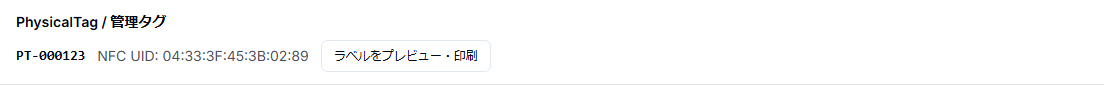
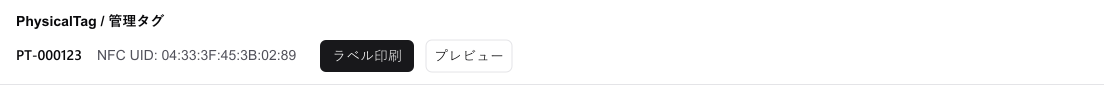
docs: sync manual with latest shipping and label features

Changed region(s): [[0.0, 0.4706, 0.462, 0.8471], [0.0, 0.1647, 0.154, 0.3529]]

diff --git a/docs/manual/full/34_external-integrations.md b/docs/manual/full/34_external-integrations.md
@@ -8,7 +8,7 @@
 
 | サービス | 接続方式 | アプリ側の正本 | 状態変更・確認の責任者 | 現在の状態 |
 | --- | --- | --- | --- | --- |
-| 日本郵便／ゆうプリR | Shipmentから取込用CSVを出力、発送履歴CSVを読取プレビュー。配送会社APIとの直接接続なし | Shipmentの宛先snapshot。履歴側はCSVのraw値と照合候補 | 送り状と現物の引渡しは担当者が外部で確認。プレビューはDBを更新しない | **実装済み：CSV出力・読取プレビューのみ**。引受・追跡・配達の書戻しは未実装 |
+| 日本郵便／ゆうプリR | Shipmentから取込用CSVを出力、発送履歴CSVを読取プレビュー。配送会社APIとの直接接続なし | Shipmentの宛先snapshot。履歴側はCSVのraw値・照合候補・公式code pair説明 | 送り状と現物の引渡しは担当者が外部で確認。プレビューはDBを更新しない | **実装済み：CSV出力・公式説明付き読取プレビュー**。引受・追跡・配達の書戻しは未実装 |
 | ヤマトB2クラウド | CSV adapterを調査中。現行アプリにB2出力UI・API・CSV生成はない | 配送会社非依存のShipment。B2固有の確定値は未設定 | 契約固有値と受理済み実ファイルの確認が先決 | **調査完了／実装保留** |
 | Stripe | 顧客のカードCheckout用にHTTPSでSessionを作成し、署名付きWebhookを受信 | Invoice、Payment、PaymentAllocation、PaymentAttempt | Stripeの決済結果をWebhookで検証し、アプリが決済レコードを確定 | **実装済み：B2C請求書のカードCheckout** |
 | 銀行振込 | 振込そのものはアプリ外。管理者の手動入金登録API | Invoiceと`MANUAL`／`BANK_TRANSFER`のPayment | 入金を確認した管理者が明示登録。銀行APIや取引明細feedは使わない | **実装済み：手動確認・登録** |
@@ -29,9 +29,9 @@
 
 荷物サイズコードは現時点で`060`固定である。実荷物が60サイズ以外なら、この値をそのまま使えると判断しない。未対応の配達希望値やCP932で表現できない文字は推測変換せずエラーにする。
 
-Admin認証が必要な`POST /api/shipments/yupuri-history/preview`は、ゆうプリR発送履歴CSVを解析して照合候補とエラーを返す。対象はCP932・BOMなし・CRLF・headerあり6列のファイルで、`SHP-{Shipment.id}`により候補を照合する。追跡番号・日付・status codeは候補またはraw値にとどめ、**追跡番号、Shipment／Repair status、実発送日時、配達完了日時を保存しない**。重複や追跡番号競合、形式不正も自動解決しない。
+Admin認証が必要な`POST /api/shipments/yupuri-history/preview`は、ゆうプリR発送履歴CSVを解析して照合候補とエラーを返す。対象はCP932・BOMなし・CRLF・headerあり6列のファイルで、`SHP-{Shipment.id}`により候補を照合する。Task202Bで公式配送status code pairの説明表示を追加した。追跡番号・日付は候補またはraw値にとどめ、**追跡番号、Shipment／Repair status、実発送日時、配達完了日時を保存しない**。重複や追跡番号競合、形式不正も自動解決しない。
 
-現時点で意味が確認されたstatusの組は`10/0A = 引受予定`のみであり、**実際の郵便局引受を証明しない**。実引受・配達完了のコードと日付形式は実際のゆうプリR履歴証拠を待つ。Task202B／Task204の追跡保存、配送状態更新、LINE発送通知を、CSV出力やpreviewの結果から先取りしない。業務上の詳細は[第25章](25_yupuri.md)を参照する。
+`10/0A = 引受予定`を含む公式表のcode pairに説明を表示するが、**説明は実際の郵便局引受やShipment状態更新を証明しない**。公式表の「-」は説明なし、表にない組は未確認として警告する。14バイトの日付値はparseせず、非空の実CSVによる形式確認を待つ。`importableLater`も将来取込候補であり書込承認ではない。Task204の追跡保存、配送状態更新、LINE発送通知をCSV出力やpreviewの結果から先取りしない。業務上の詳細は[第25章](25_yupuri.md)を参照する。
 
 ## 34.3 ヤマトB2クラウドの調査境界
 

diff --git a/docs/manual/full/19_ql800-label.md b/docs/manual/full/19_ql800-label.md
@@ -4,22 +4,23 @@
 
 修理袋用のPhysicalTagラベルは、Brother QL-800とDK-2205 62 mm連続紙を前提とする。
 
-アプリは **62 × 75 mm** のPDFを生成し、QL-800のオートカットで1枚75 mmに切る。
+通常はRepair詳細の「ラベル印刷」からb-PACで **62 × 75 mm** をQL-800へ直接印刷し、1枚75 mmでオートカットする。PDFは「プレビュー」から開ける予備の印刷経路として残る。
 DK-2205は糊付きだが、運用上は剥離紙から剥がさず台紙付きのカードとして修理袋と一緒に扱ってよい。
 
 ## 19.2 印刷までの操作
 
-PhysicalTagが割当済みのRepairでは、Repair詳細の「PhysicalTag / 管理タグ」にshortCodeと「ラベルをプレビュー・印刷」が表示される。
+PhysicalTagが割当済みのRepairでは、Repair詳細の「PhysicalTag / 管理タグ」にshortCodeと「ラベル印刷」「プレビュー」が表示される。
 
 1. 対象Repairと時計現物を確認する。
 2. PhysicalTag shortCodeを確認する。
-3. 「ラベルをプレビュー・印刷」を押す。
-4. 62 × 75 mm PDFの内容を確認する。
-5. PDFを開いてQL-800へ印刷する。
-6. 印刷後、受付番号・時計情報・shortCodeを目視確認する。
-7. QRをscannerで読めることを必要に応じて確認する。
+3. Brother QL-800がonlineで、DK-2205の62 mm連続紙が装着されていることを確認する。
+4. 「ラベル印刷」を押し、QL-800へ1枚直接印刷する。
+5. 印刷後、受付番号・時計情報・shortCodeを目視確認する。
+6. QRをscannerで読めることを必要に応じて確認する。
 
-アプリからBrother SDKやプリンタ固有コマンドを直接呼ぶ方式ではなく、ブラウザで生成したPDFを印刷する。
+印刷先はアプリが`Brother QL-800`を明示指定する。Windowsの既定プリンターには依存しない。b-PAC Extension、QL-800の接続・online状態、62 mmメディア、62 × 75 mmテンプレートを印刷前に確認し、条件が合わなければ印刷しない。自動で別プリンターやPDF印刷へ切り替えない。
+
+PDFを確認・予備印刷したい場合は「プレビュー」を押し、表示された62 × 75 mm PDFから「PDFを開いて印刷」を選ぶ。再印刷も割当済みの同じPhysicalTagを使い、新しいタグは発行しない。
 
 ## 19.3 ラベルへ印刷される内容
 
@@ -70,16 +71,13 @@ QR payloadはPhysicalTagのopaqueな `qrToken` だけである。
 
 - 用紙: DK-2205 / 幅62 mm連続紙
 - 仕上がり長さ: 75 mm
-- 倍率: 等倍 / 100%
-- 不要な「用紙に合わせる」拡大縮小を使わない
-- 余白やページサイズが62 × 75 mmとして認識されていること
 - オートカットが有効であること
 
-ブラウザやPDF viewer側で用紙サイズがA4へ勝手に変更されていないか確認する。
+「プレビュー」からPDFを印刷する場合は、等倍 / 100%とし、不要な拡大縮小を使わず、用紙サイズがA4ではなく62 × 75 mmであることを確認する。
 
 ## 19.7 実機PoC
 
-QL-800 + DK-2205の実機PoCでは、75 mmオートカットとQR読取の往復確認まで成功している。
+QL-800 + DK-2205の実機PoCでは、b-PACからの1枚直接印刷と75 mmオートカットを確認している。従来のラベル印刷PoCではQR読取の往復確認も成功している。
 
 アプリ固有の最終62 × 75 mmレイアウトについては、実際の修理袋運用で日本語の読みやすさ・余白・項目バランスを確認し、必要ならレイアウトだけを調整する。
 

diff --git a/docs/manual/full/26_shipping-tracking-delivery.md b/docs/manual/full/26_shipping-tracking-delivery.md
@@ -1,6 +1,6 @@
 # 第26章 発送・追跡・配達完了 — 現行運用と制限
 
-> **この章の前提:** Task202B / Task204の実引受判定、追跡番号保存、LINE発送通知、配達完了からRepair納品済みへの自動連携は未完成である。本章は将来機能の操作手順ではなく、現在の実装で発送後を安全に扱うための確認手順を示す。
+> **この章の前提:** Task202Bの公式配送status codeの説明表示はproduction完了済み。Task204の実引受に基づく発送更新、追跡番号保存、LINE発送通知、配達完了からRepair納品済みへの自動連携は未実装である。本章は現在の実装で発送後を安全に扱うための確認手順を示す。
 
 ## 26.1 この章の範囲
 
@@ -45,17 +45,19 @@ V3 CSVをゆうプリRへ取り込み、ゆうプリR側で送り状を発行・
 
 ## 26.5 発送履歴CSVを確認するとき
 
-発送履歴CSVを入手できる場合は、第25章のread-only previewでShipment候補とraw値を確認できる。
+発送履歴CSVを入手できる場合は、第25章のread-only previewでShipment候補、raw値、公式表に説明があるcode pairの表記を確認できる。
 
 preview結果を見るときは次を守る。
 
 - `SHP-{Shipment.id}`のお客様側管理番号が対象Shipmentと一致するか確認する。
-- 追跡番号候補、日付候補、status codeは**候補/raw値**として読む。
-- 重複管理番号、照合不能、追跡番号競合、未知codeがあれば推測で解決しない。
-- `10/0A`は確認済みの意味が「引受予定」であり、実際の郵便局引受を示さない。
+- 追跡番号候補と14バイトの日付値は**候補/raw値**として読む。日付値のparse・timestamp保存は未実装である。
+- 公式表で説明があるcode pairはその表記を表示する。「-」の組は説明なし、表にない組は未確認の警告となる。
+- 重複管理番号、照合不能、追跡番号競合、未確認codeがあれば推測で解決しない。
+- `10/0A = 引受予定`は実際の郵便局引受を示さない。
+- `importableLater`は将来の取込候補であり、Shipment状態の判定や更新承認ではない。
 - preview成功を「Shipmentへ取り込み済み」「発送済み」「配達済み」と読み替えない。
 
-実引受・配達完了のcode対応と日付形式は、実際のゆうプリR履歴データを根拠にTask202Bで確定する。
+公式code pairの説明表示と、実引受・配達完了をShipmentへ確定保存する処理は別である。非空の14バイト日付値を含む実CSVが不足しており、日時形式と意味は未確定である。
 
 ## 26.6 追跡中の確認
 
@@ -88,9 +90,9 @@ preview結果を見るときは次を守る。
 
 ## 26.9 この章を更新する条件
 
-Task202B / Task204等で次が実装され、productionで実データによる動作確認まで完了した場合に本章を更新する。
+Task202Bの公式説明表示は本章へ反映済み。次の保存・通知機能が実装され、productionで実データによる動作確認まで完了した場合に本章を更新する。
 
-- 実引受を判定するcode・日付契約
+- 実CSVに基づく14バイト日付値の形式・意味と実引受判定契約
 - 追跡番号の安全なShipment保存
 - `actualShippedAt` / `deliveredAt`等の確定ルール
 - Shipment / Repair statusの状態遷移

diff --git a/docs/manual/full/25_yupuri.md b/docs/manual/full/25_yupuri.md
@@ -25,9 +25,9 @@
 
 `POST /api/shipments/yupuri-history/preview` は、ゆうプリRの発送履歴CSVを読んで照合候補とエラーを返す管理者用API。現行の取込契約はCP932、BOMなし、CRLF、headerあり6列、1ファイル256 KiB・データ500行まで。`SHP-{id}` 形式のお客様側管理番号でShipment候補を探し、お問い合わせ番号、引受関連日、配達完了日、集約・明細status codeを **候補・raw値** として表示する。
 
-確認済みの意味は `10/0A = 引受予定` のみ。これは実際の郵便局引受を証明しない。実引受・配達完了のcode対応と非空日付の書式は、実CSVの証拠を待つTask202Bの範囲である。重複管理番号、照合不能、追跡番号の競合、形式不正はエラー扱いとする。
+Task202Bで、日本郵便の公式表に記載された集約・明細status codeの組と説明をpreviewへ追加した。たとえば`10/0A = 引受予定`、`11/01 = 引受`、`52/01 = 配達完了`を公式表記として表示する。`10/0A`は実引受を示さない。公式表で説明が「-」の組は説明なし、表にない組は未確認として警告する。重複管理番号、照合不能、追跡番号の競合、形式不正はエラー扱いとする。
 
-プレビューは **読取専用**。追跡番号、Shipment / Repair status、実発送日時、配達完了日時を書き戻さない。`importableLater` のような候補表示も書込承認ではない。履歴取込の共通画面はなく、APIで確認しただけでは配送状態は更新されない。
+プレビューは **読取専用**。追跡番号、Shipment / Repair status、実発送日時、配達完了日時を書き戻さない。`importableLater` はエラーなし・Shipment照合済み・公式説明ありの将来取込候補を示すだけで、状態判定や書込承認ではない。14バイトの日付値はraw文字列のまま返し、日時としてparse・保存しない。非空日付値の実CSVが不足しているため、書式・タイムゾーンを推測しない。履歴取込の共通画面はなく、APIで確認しただけでは配送状態は更新されない。
 
 ## 25.4 発送後の現在地
 

diff --git a/docs/manual/full/39_manual-update.md b/docs/manual/full/39_manual-update.md
@@ -29,7 +29,7 @@
 
 記載前に対象の画面・API・処理と[ステータスの正本](35_status-source-of-truth.md)を確認し、Task記録・現在のproduction source commit・deployment・smoke結果と照合する。local実装、commit、production反映、外部連携の実動作は別段階である。確認できた段階だけを「できること」として記し、未実装・未検証・結果不明はそのまま明示する。[第38章](38_backup-migration-deploy.md)のproduction記録も参照する。
 
-特に**Task202B/204の追跡番号保存、実引受・配達完了の判定、発送・配達自動連携**は、実装とproductionでの動作が確認できるまで完成済みとして書かない。現行のゆうプリR発送履歴取込はread-only previewであり、候補値をShipmentへ保存しない。[第25章](25_yupuri.md)と[第35章](35_status-source-of-truth.md)を照合する。ロードマップの予定と現行操作を同じ手順に混ぜず、予定が必要なら「未実装」と分けて書く。
+Task202Bの公式配送status code説明表示はproduction完了済みとして扱う。一方、Task204の実引受に基づく発送更新、追跡番号保存、LINE発送通知、配達完了からRepair納品済みへの自動連携と、raw日付値のparse・timestamp保存は未実装である。現行のゆうプリR発送履歴はread-only previewであり、候補値をShipmentへ保存しない。[第25章](25_yupuri.md)と[第35章](35_status-source-of-truth.md)を照合する。ロードマップの予定と現行操作を同じ手順に混ぜず、予定が必要なら「未実装」と分けて書く。
 
 ## 39.4 画面画像を安全に更新する
 

diff --git a/docs/manual/previews/02_receive-tag-storage-preview.md b/docs/manual/previews/02_receive-tag-storage-preview.md
@@ -50,17 +50,19 @@ Repair = 受付
 
 ## 7. Brother QL-800で修理袋ラベルを印刷する
 
-「ラベルをプレビュー・印刷」から、DK-2205 62mm連続紙用の **62 × 75 mm PDF** を生成する。
+Repair詳細の「ラベル印刷」から、DK-2205 62 mm連続紙用の **62 × 75 mm** ラベルをBrother QL-800へb-PACで直接印刷する。「プレビュー」からPDFも開ける。
 
 ![PhysicalTag label](../assets/screenshots/physical-tag-label-preview.png)
 
 印刷時の基本:
 
-1. Brother QL-800 / DK-2205を選ぶ。
-2. PDFを等倍・100%で印刷する。
-3. 75mmでオートカットする。
+1. QL-800のonline状態とDK-2205の62 mm連続紙を確認する。
+2. 「ラベル印刷」を押す。印刷先はQL-800に固定され、b-PAC Extension・用紙・テンプレートの確認に失敗した場合は印刷しない。
+3. 75 mmでオートカットされたことを確認する。
 4. 受付番号・時計情報・shortCodeを目視確認する。
 5. 必要に応じてQR scannerで読取確認する。
+
+PDFを確認・予備印刷する場合は「プレビュー」から開き、62 × 75 mmを等倍で印刷する。再印刷で新しいPhysicalTagは発行しない。
 
 **運用:** DK-2205は糊付きだが、剥離紙から剥がさず台紙付きのまま修理袋用カードとして扱う。
 

diff --git a/docs/manual/previews/09_external-services-preview.md b/docs/manual/previews/09_external-services-preview.md
@@ -31,8 +31,8 @@
 | --- | --- |
 | `GET /api/shipments/[id]/yupuri-v3` | Admin認証、OUTBOUND・発送前のShipmentから読取専用出力。共通画面に出力ボタンはない |
 | V3 CSV | 100列、headerなし、CP932／Shift_JIS、BOMなし、CRLF。管理番号`SHP-{Shipment.id}` |
-| `POST /api/shipments/yupuri-history/preview` | Admin認証、履歴のraw値・照合候補・エラーを表示するだけ |
-| 状態の確定 | `10/0A = 引受予定`だけ意味を確認済み。実引受、追跡保存、配達更新は未実装 |
+| `POST /api/shipments/yupuri-history/preview` | Admin認証、履歴のraw値・照合候補・エラーと公式配送status code pairの説明を表示するだけ |
+| 状態の確定 | `10/0A = 引受予定`は実引受ではない。`importableLater`も書込承認ではなく、実引受に基づく発送更新、追跡保存、配達更新は未実装 |
 
 **下段の区切り枠:** ヤマトB2クラウドは**調査完了／実装保留**。公式の固定順97項目を確認したが、契約ごとの請求先情報、依頼主情報、サービス設定と、受理済みテンプレート／実サンプルが不足する。現行アプリにB2 CSV出力UI・APIはない。実契約コードを印刷しない。
 

diff --git a/docs/manual/quick/05_physical-tag-label.md b/docs/manual/quick/05_physical-tag-label.md
@@ -20,13 +20,15 @@ Repair詳細の「PhysicalTag / 管理タグ」を確認する。
 
 ## 3. ラベルを印刷
 
-1. 「ラベルをプレビュー・印刷」を押す。
-2. 62 × 75 mm PDFを確認する。
-3. Brother QL-800 + DK-2205へ等倍で印刷する。
+1. Brother QL-800のonline状態とDK-2205の62 mm連続紙を確認する。
+2. Repair詳細の「ラベル印刷」を押し、QL-800へ62 × 75 mmを1枚直接印刷する。
+3. 印刷先はQL-800に固定される。b-PAC Extensionや用紙・テンプレート等の確認に失敗した場合は、表示されたエラーを確認する。
 4. 75 mmでオートカットされたことを確認する。
 5. 受付番号・時計情報・shortCodeを目視確認する。
 
 QRには顧客情報やRepair IDは直接入っていない。
+
+PDFを確認・予備印刷する場合は「プレビュー」から開き、62 × 75 mmを等倍で印刷する。再印刷でも新しいPhysicalTagは発行しない。
 
 ## 4. 修理袋へ付ける
 

diff --git a/docs/manual/quick/22_yupuri.md b/docs/manual/quick/22_yupuri.md
@@ -8,7 +8,7 @@
 
 ## 発送履歴の確認
 
-管理者用の発送履歴CSVプレビューAPIは **読取専用**。追跡番号や発送日、配達完了日、Shipment / Repair statusを書き戻さない。確認済みの `10/0A` は「引受予定」であり、実引受ではない。
+管理者用の発送履歴CSVプレビューAPIは **読取専用**。Task202Bで公式配送status code pairの説明を表示するようになった。`10/0A = 引受予定`は実引受ではない。`importableLater`は将来取込候補で、状態更新承認ではない。14バイトの日付値はrawのままで、追跡番号や発送日、配達完了日、Shipment / Repair statusを書き戻さない。
 
 **現在の限界:** 出力・プレビュー以降の送り状操作、実際の引渡し、追跡・配達完了は自動連携が完成していない。実物とゆうプリR側の結果を確認し、アプリに自動記録されたものとして扱わない。
 

diff --git a/docs/manual/previews/06_shipping-yupuri-preview.md b/docs/manual/previews/06_shipping-yupuri-preview.md
@@ -73,7 +73,6 @@ CSV出力はread-onlyで、Shipment status、trackingNumber、実発送日時等
 
 ## 7. 発送履歴は現在read-only preview
 
-発送履歴CSVのpreview APIは、追跡番号候補・日付候補・status codeを照合するだけで保存しない。
-現在意味を確認済みなのは `10/0A = 引受予定` のみで、実際の郵便局引受や配達完了を意味しない。
+発送履歴CSVのpreview APIは、追跡番号候補・raw日付値・status codeを照合し、Task202Bで公式code pairの説明を表示する。値は保存しない。`10/0A = 引受予定`は実際の郵便局引受を意味しない。`importableLater`は将来取込候補で、状態更新承認ではない。14バイトの日付値のparse・保存も未実装である。
 
 **現在の限界:** 追跡番号保存、実引受検知、LINE発送通知、配達完了 → Repair納品完了の自動連携はまだ完成していない。
